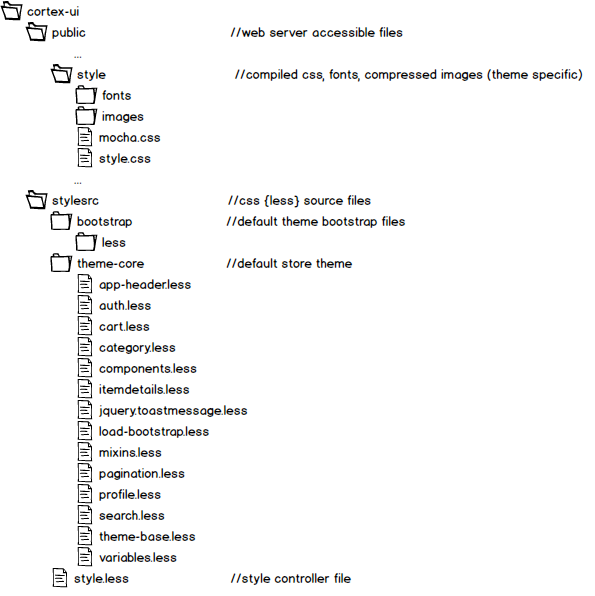
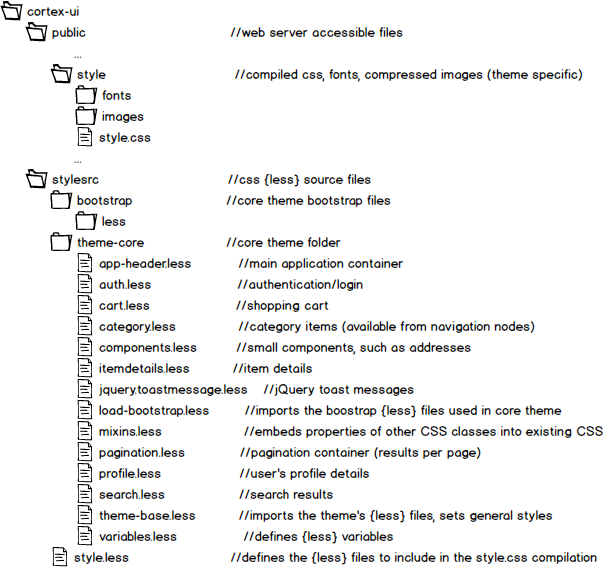
OSD-66. Updating theme details. Removed {less} views layout section, as it's not necessary.

diff --git a/documentation/theming.md b/documentation/theming.md
@@ -1,22 +1,25 @@
 Theming
 ====================
-Theming allows you to change the HTML5 Reference Storefront's look and feel without having to change the JavaScript.
+Theming allows you to change the HTML5 Reference Storefront's look and feel without having to modify the JavaScript.
 Themes take advantage of <a href="http://lesscss.org/">{less}</a>, a powerful dynamic stylesheet language, chosen for its ease of use, dynamism, and widespread adoption.
 
-Each theme is comprised of a set of individual <a href="http://lesscss.org/">{less}</a> files, which get compiled into single style.css that HTML5 Storefront uses.
-{less} files are organized according to the view/region on HTML5 Storefront. See {less} Regions
+Each theme is comprised of a set of individual <a href="http://lesscss.org/">{less}</a> files, which compile into single style.css used by HTML5 Storefront.
+The core theme's {less} files are organized according to the view. Each {less} file represents a view.
+For example, <code>cart.less</code> contains the CSS for the cart's look and feel.
 
 
 
 Theme Directory Structure
 -----------------
-The image below shows the important files for the HTML5 Storefront's core theme.
+The image below shows the important HTML5 Storefront's core theme files.
 
 ![themeStructures](https://github.elasticpath.net/cortex/ui-storefront/raw/master/documentation/img/themeStructures.png)
 
 Compiling your Theme
 -----------------
-To compile your {less} files:
+How and where your theme's {less} files compile is defined in <code>Gruntfile.js</code>.
+
+<b>To compile your {less} files:</b>
 
 * In a command line, navigate to the HTML5 Reference Storefront root, and run one of the following:
 <table>
@@ -27,15 +30,15 @@ To compile your {less} files:
 </tr>
 <tr>
 <td><code>grunt less</code></td>
-<td>Compiles the {less} files into style.css.</td>
+<td>Compiles {less} files into style.css.</td>
 </tr>
 <tr>
 <td><code>grunt watch</code></td>
-<td>Sets Grunt to watch the {less} files for changes and immediately compiles the style.css when a change is detected.</td>
+<td>Sets Grunt to watch {less} files for changes and immediately compiles the style.css when a change is detected.</td>
 </tr>
 </tbody>
 </table>
-By default, the {less} files compile to <code>ui-storefront/public/style/style.css</code>
+By default, {less} files compile to <code>ui-storefront/public/style/style.css</code>
 <br/>
 
 <b>TROUBLESHOOTING NOTE:</b> Grunt {less} compilation issues: <i>throw new TypeError('Arguments to path.resolve must be strings');</i>
@@ -55,12 +58,6 @@ npm install grunt
 <code>npm install</code>
 </li>
 </ul>
-
-{less} Regions
----------------------
-Each of the {less} files each represent a view/region on the Storefront. A view is.....
-
-
 
 <h2>Tutorial: Writing Your Own Theme</h2>
 
